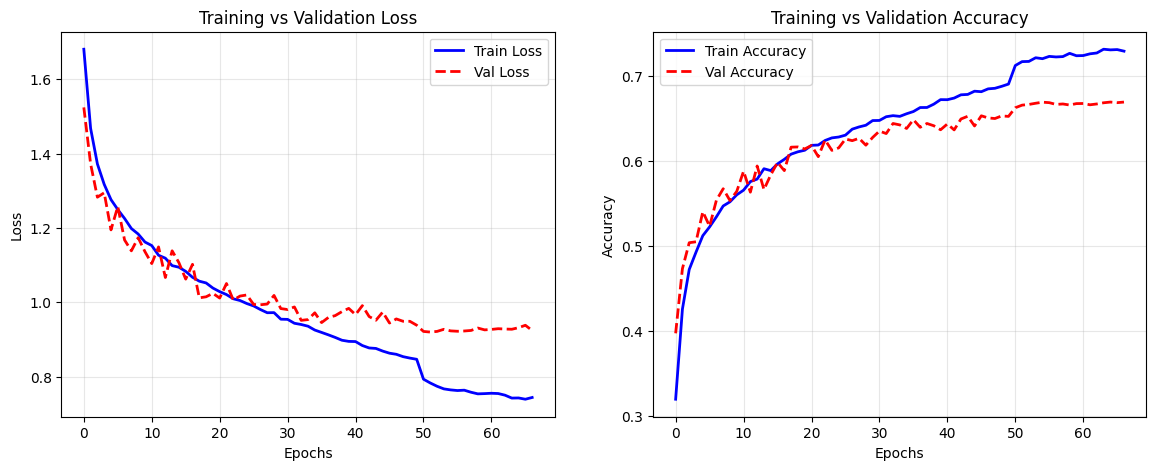
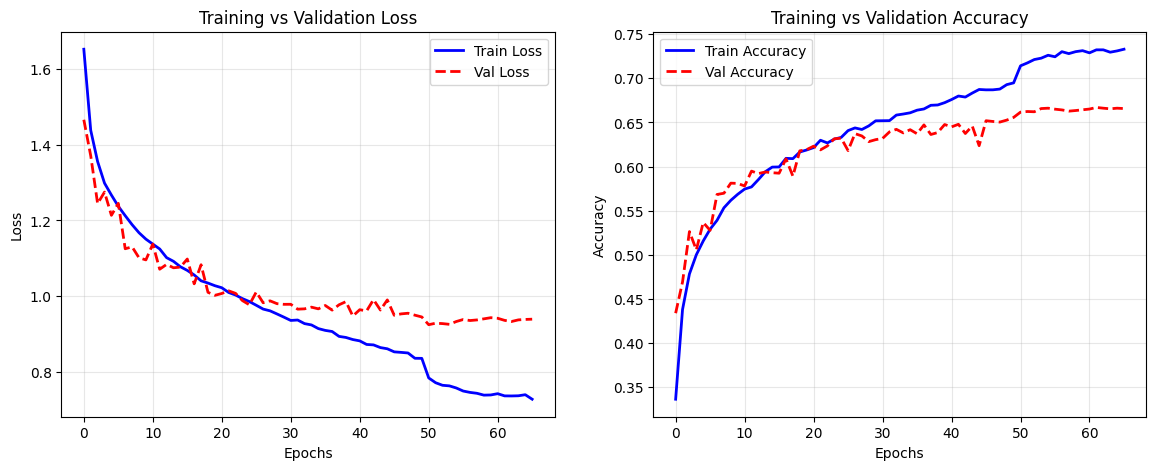
misc changes

diff --git a/train.py b/train.py
@@ -437,7 +437,7 @@ if __name__ == "__main__":
         class_names=class_names, 
         device=DEVICE, 
         log_dir=log_dir, 
-        model_choice=MODEL_CHOICExs
+        model_choice=MODEL_CHOICE
     )
     
     print("[!] Training loop finished. Closing W&B run.")